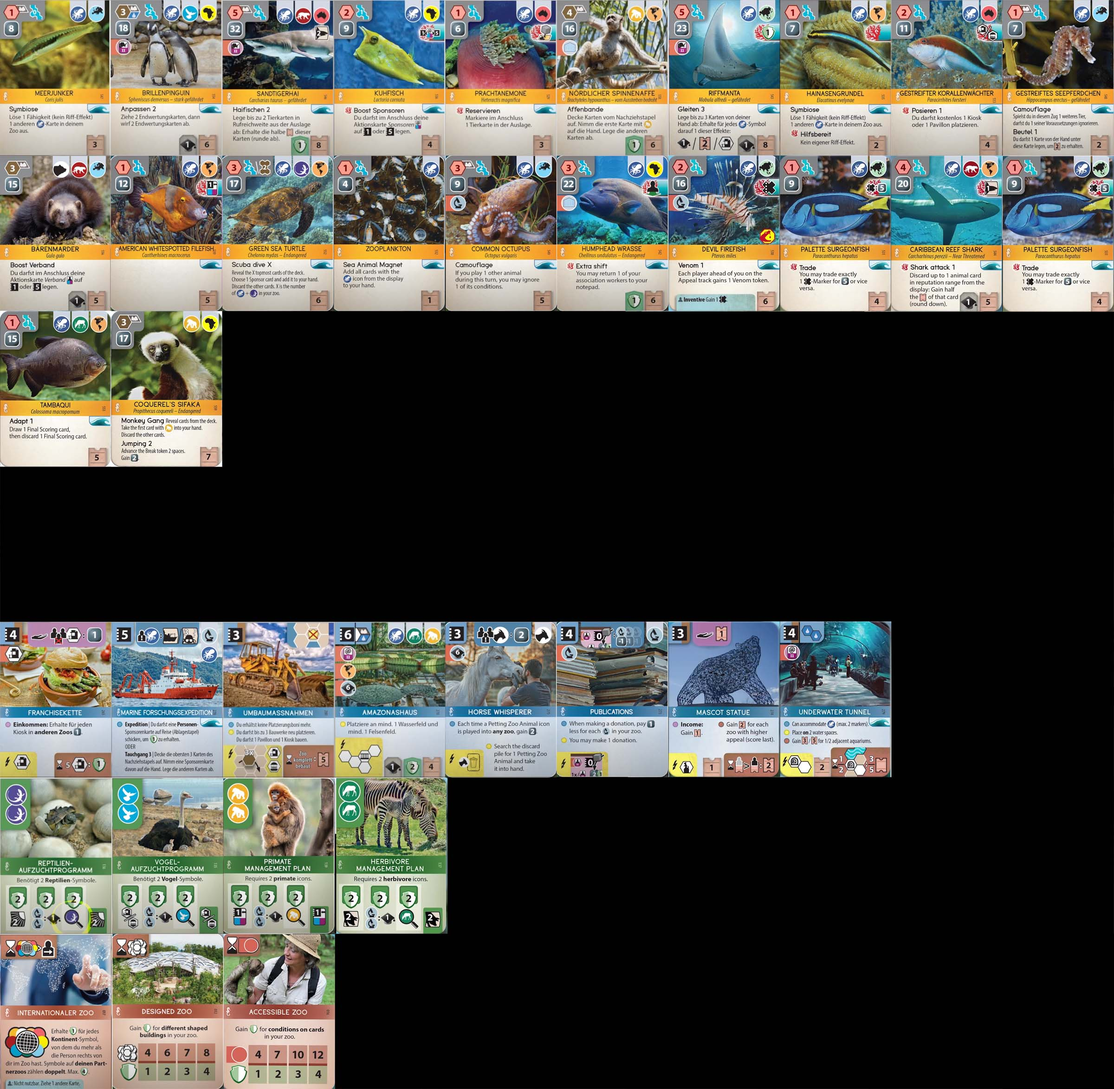
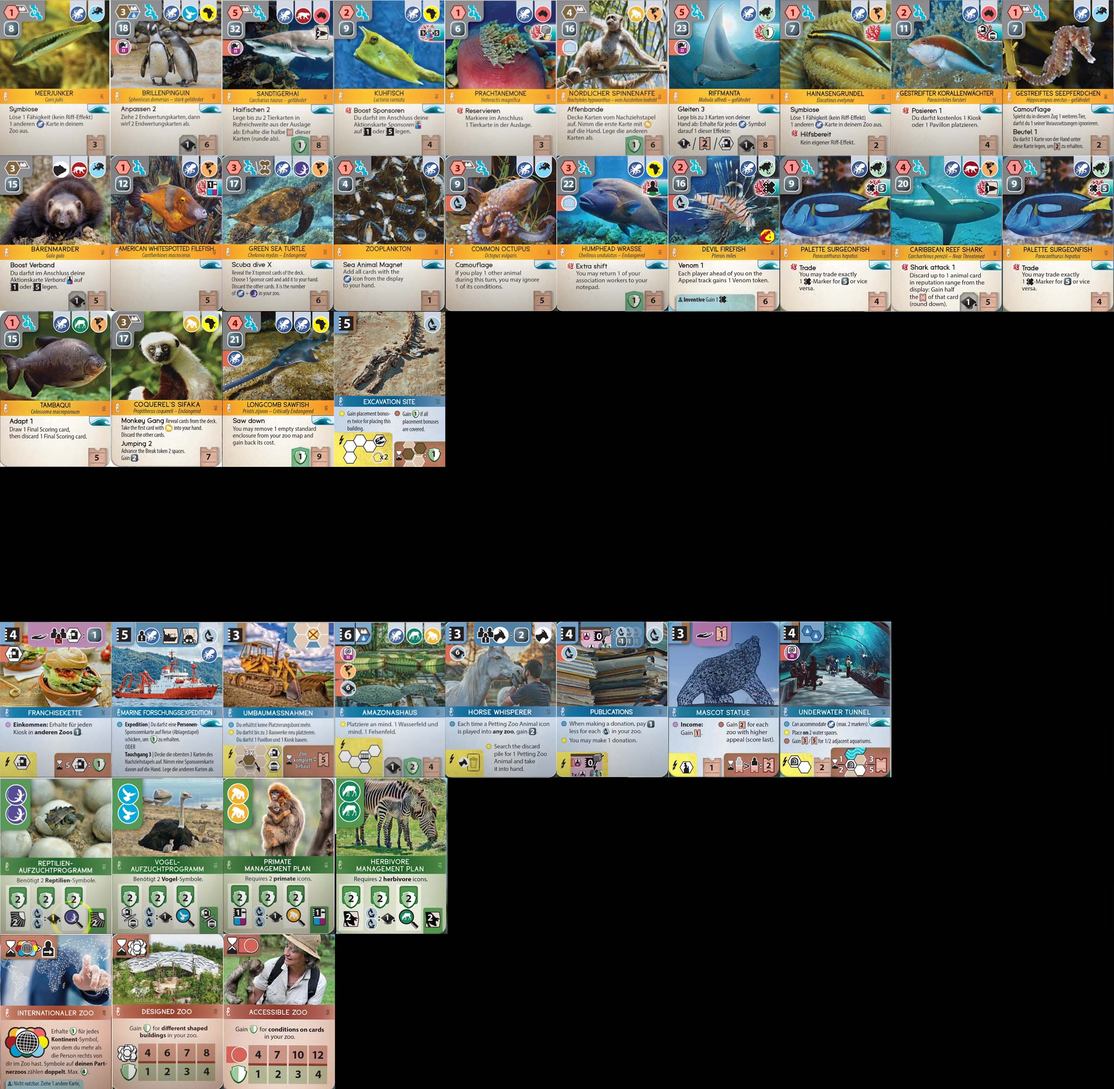
update marine world

Changed region(s): [[0.1875, 0.2801, 0.4062, 0.4356], [0.3438, 0.7779, 0.375, 0.809], [0.0, 0.9335, 0.0312, 0.9646]]

diff --git a/arknova-cards-list.html b/arknova-cards-list.html
@@ -1057,6 +1057,12 @@
           <div class="number">#536</div>
           <div class="name">Heteractis magnifica</div>
       </li>
+
+      <li onclick="getClickedCard();"
+          class="cards7 marine-world filterDiv animal r3 c3 marine africa size4 ap">
+          <div class="number">#536</div>
+          <div class="name">Heteractis magnifica</div>
+      </li>
   </ul>
 
   <!--SPONSORS-->
@@ -1490,6 +1496,12 @@
 
       <li onclick="getClickedCard();"
           class="cards7 marine-world filterDiv r5 c8 sponsor ape">
+          <div class="number">#264</div>
+          <div class="name">Free-range New World Monkeys</div>
+      </li>
+
+      <li onclick="getClickedCard();"
+          class="cards7 marine-world filterDiv r3 c4 sponsor science">
           <div class="number">#264</div>
           <div class="name">Free-range New World Monkeys</div>
       </li>
